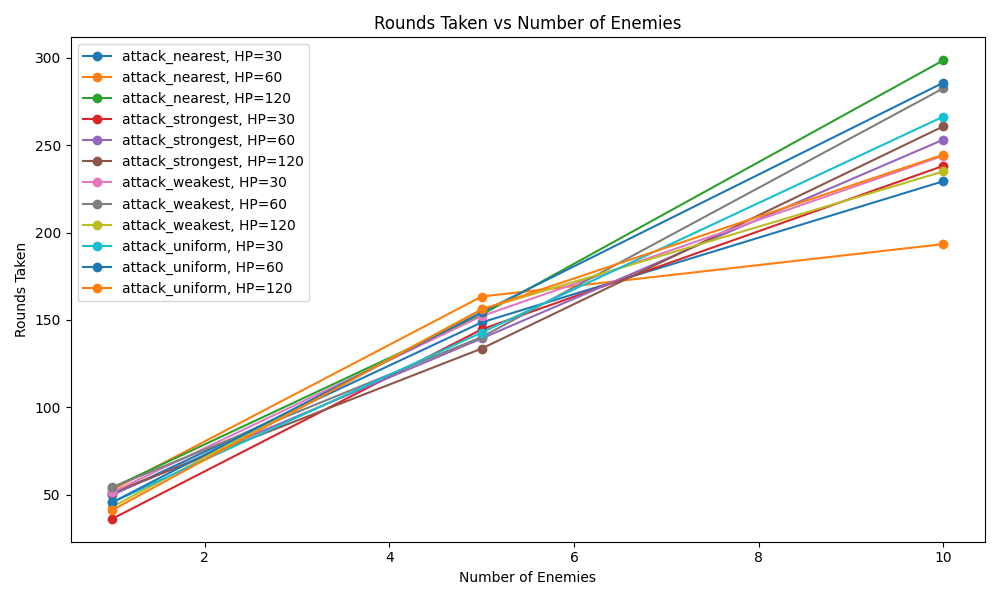
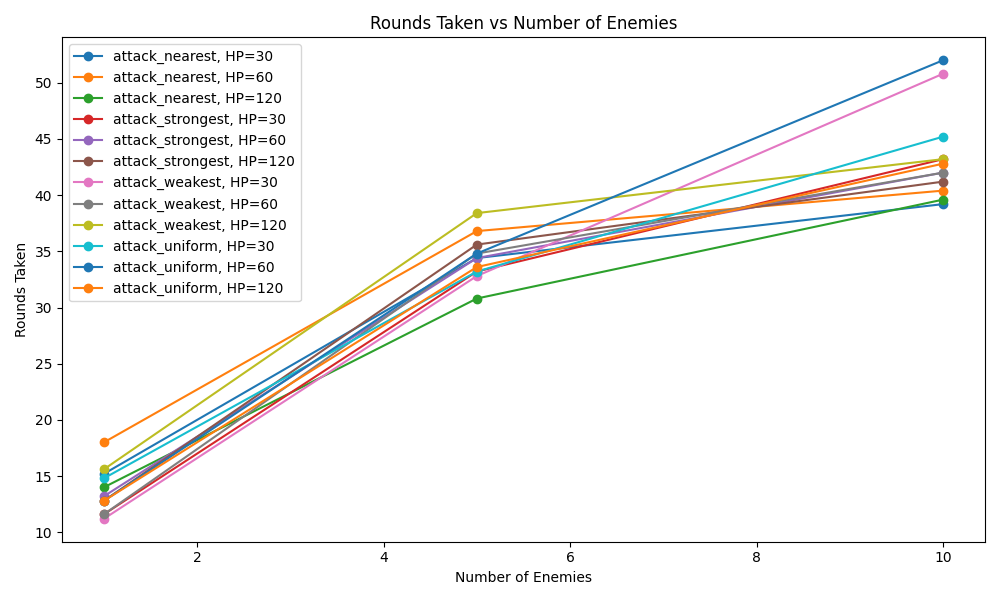
Fixed rounds graph

diff --git a/model.py b/model.py
@@ -221,14 +221,14 @@ def experiment_varying_enemies_and_health(
                 })
     # Plotting
     for metric in [
-    "Total Damage Dealt by Players",
-    "Total Damage Dealt by Enemies",
-    "Rounds Taken",
-    "Avg Attacks per Turn",
-    "Avg Entities Alive per Turn",
-    "Players Survived",
-    "Enemies Survived",
-    "Player Win %"
+    # "Total Damage Dealt by Players",
+    # "Total Damage Dealt by Enemies",
+    "Rounds Taken"#,
+    # "Avg Attacks per Turn",
+    # "Avg Entities Alive per Turn",
+    # "Players Survived",
+    # "Enemies Survived",
+    # "Player Win %"
     ]:
         plt.figure(figsize=(10, 6))
         for strategy in enemy_strategies:
